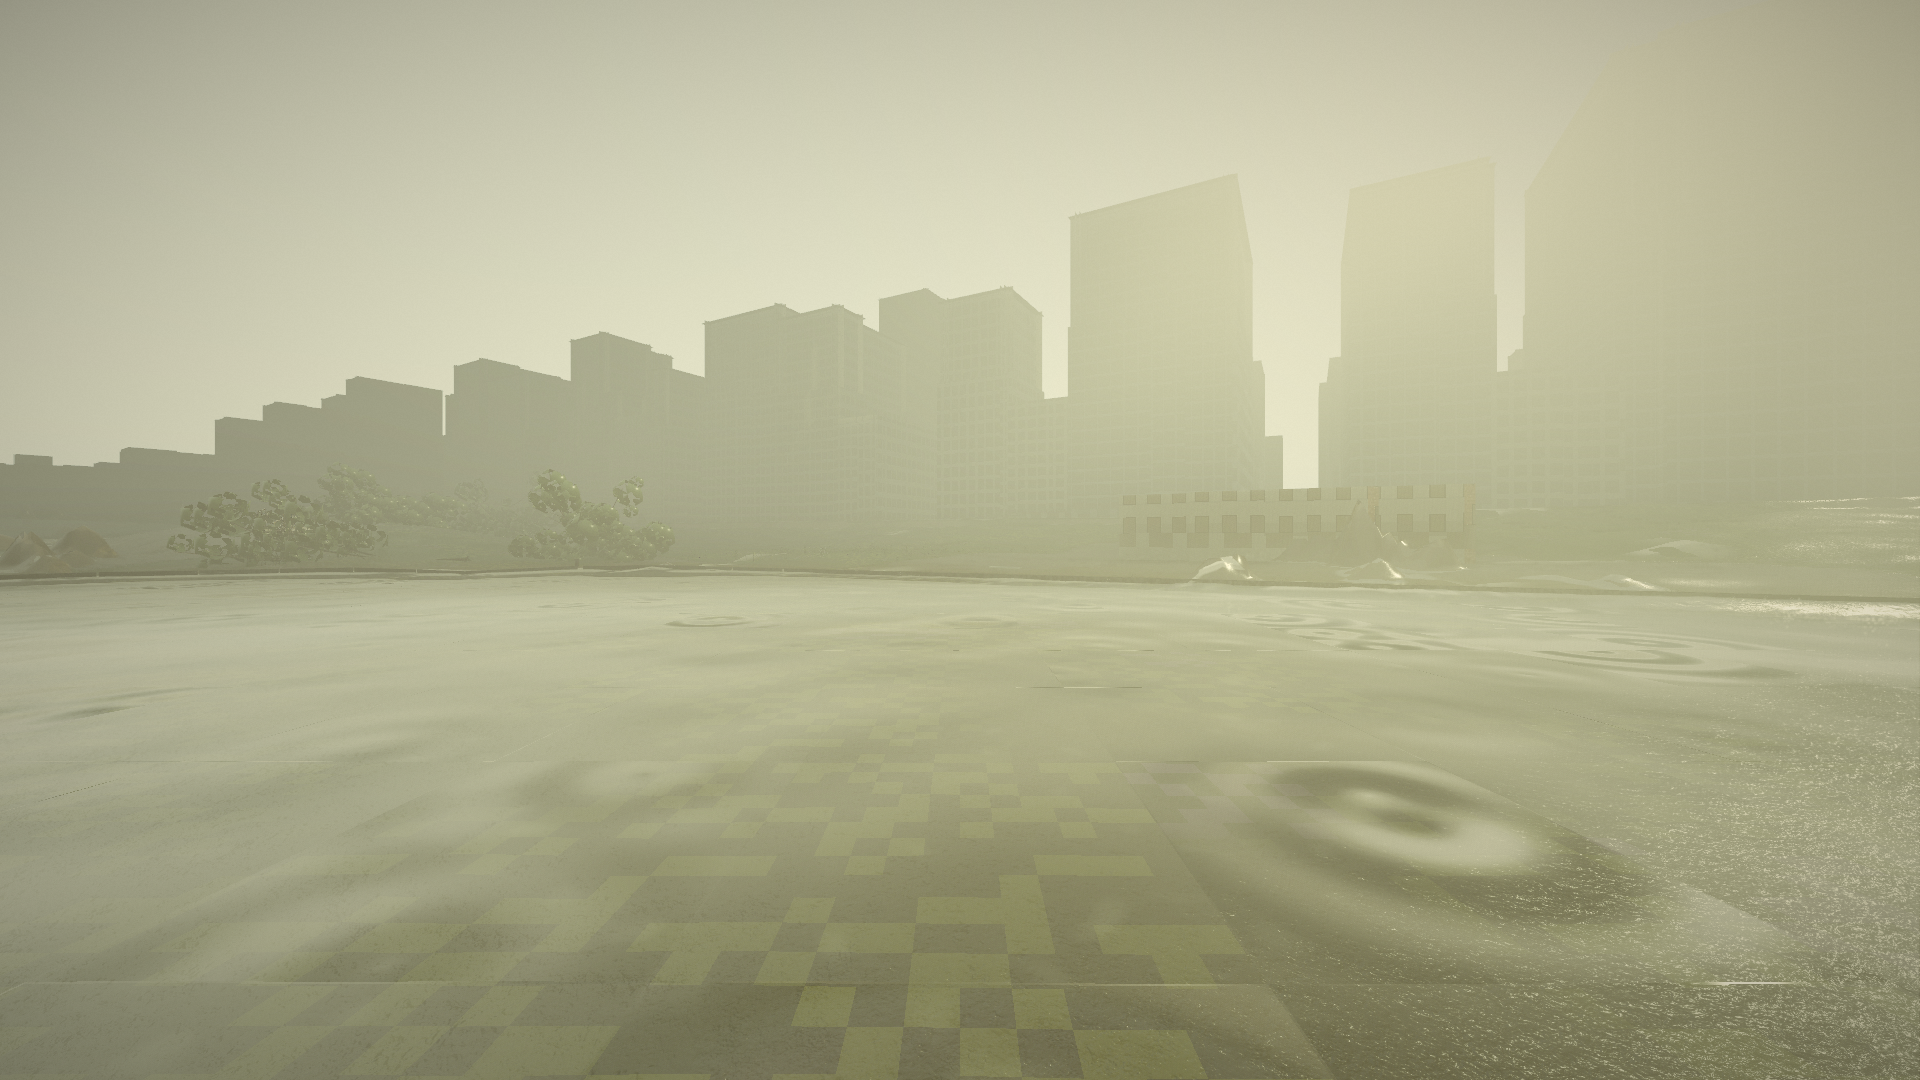
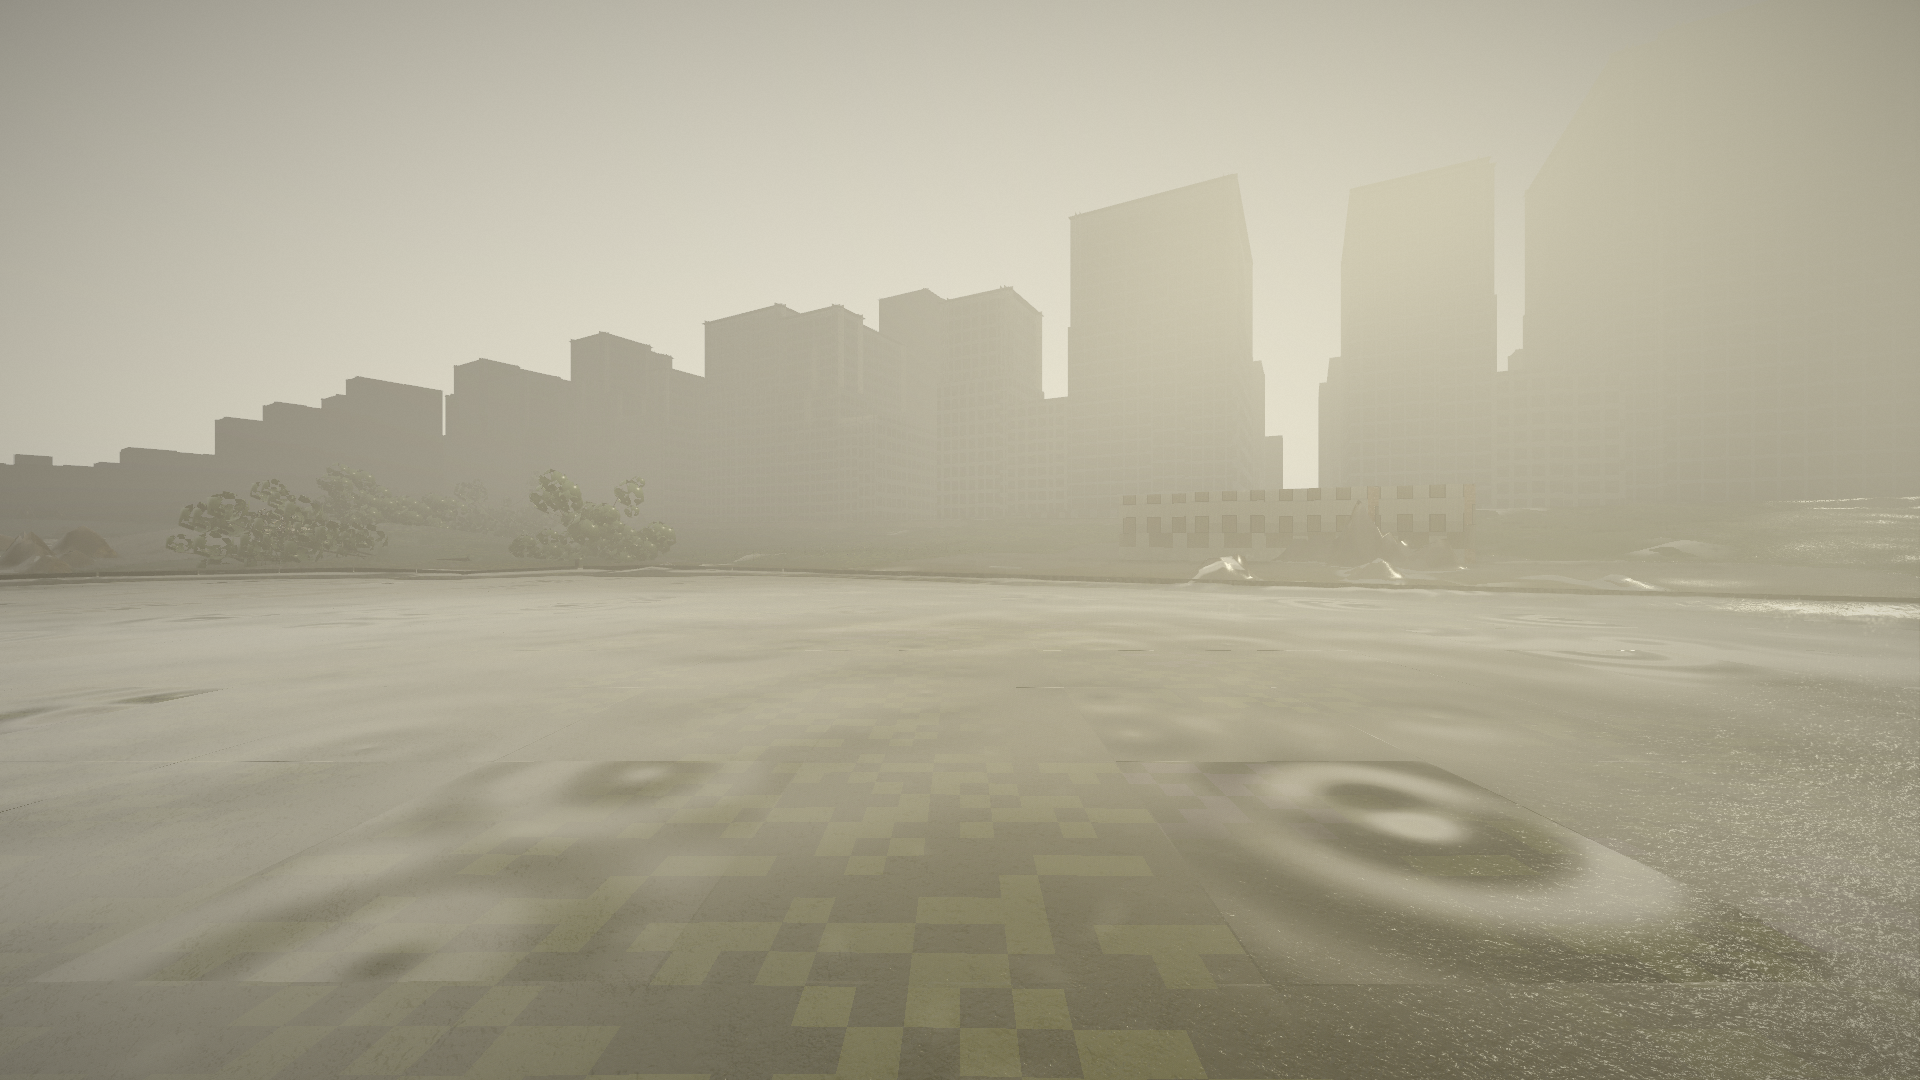
Refresh README screenshots and add color grading to feature table
Screenshots regenerated with corrected post-process color grading:
natural greens, photographic saturation, reduced amber wash.
Added color grading row to features table.

diff --git a/README.md b/README.md
@@ -91,7 +91,8 @@ python3 convert_to_godot.py
 | Grass | ~762K tiles | 10 CPC-data-driven types with narrow 3D blades (8–15mm), wildflowers, clover. Mowed=1-segment spikes, woodland=2-segment curves, meadow=3-segment arches. Mowing stripes on formal lawns, path-edge wear (shorter/browner near paths), multi-scale color variation (5 scales from field-level drainage to per-clump species mix), dandelion + clover weeds in maintained lawns, winter dormancy |
 | Seasons | 4 | Per-species phenology, cherry/callery pear/magnolia spring blossoms, spring cherry blossom petal drift, autumn falling leaf particles, leaf scatter, water color, atmosphere |
 | Weather | 5 modes | Rain, thunderstorm, snow, fog, clear — with surface response |
-| Day/night | Full cycle | 48-lamp pool, lit windows, NYC warm ambient light pollution, moon, golden hour bloom, atmospheric haze |
+| Day/night | Full cycle | 48-lamp pool, lit windows, NYC warm ambient light pollution, moon, atmospheric haze |
+| Color grading | Cinematic | Split-tone (teal shadows/amber highlights), film grain, vignette, seasonal + TOD color shifts, S-curve contrast, distance-based grass darkening |
 
 ## Data Sources
 
